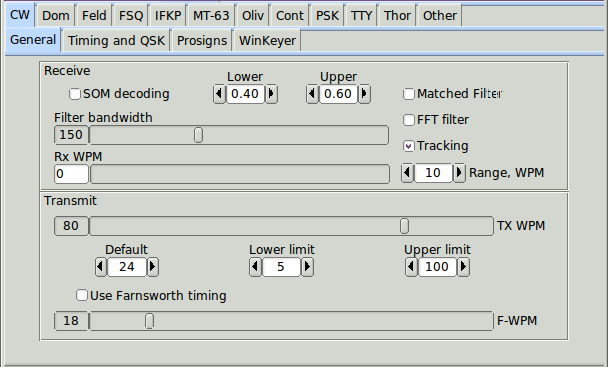
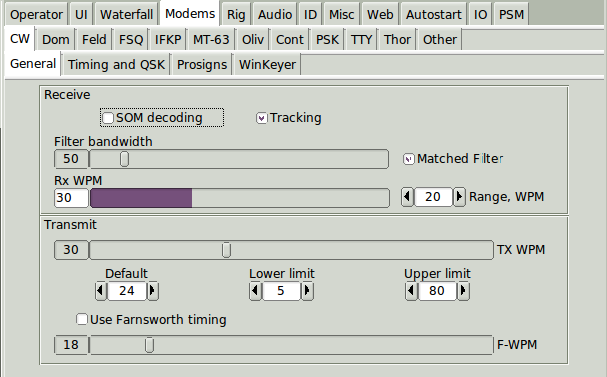
CW code update
* Changed all element timing to number of samples
    both CW and CW scanning detectors
  * Removed FIR filter. FFT filter only for CW signal path.
  * Removed Hilbert transform from CW signal path
  * Update CW documentation

Changed region(s): [[0.0, 0.0, 1.0, 1.0]]

diff --git a/src/include/cw.h b/src/include/cw.h
@@ -36,20 +36,11 @@
 #include "fftfilt.h"
 #include "mbuffer.h"
 
-
-#define	CWSampleRate	8000
+#define	CW_SAMPLERATE	8000
 #define	CWMaxSymLen		4096		// AG1LE: - was 4096 
 #define KNUM 			640			// 1/2 dot length at 5 wpm
 
-// decimation ratio for the receiver 
-//#define	DEC_RATIO	8
-//#define CW_FIRLEN 32		
-//#define CW_FIRLEN   122      
-//#define CW_FIRLEN	  256
-//#define CW_FIRLEN   512
-// Limits on values of CW send and timing parameters 
-//#define	CW_MIN_SPEED		5	// Lowest WPM allowed 
-//#define	CW_MAX_SPEED		100	// Highest WPM allowed 
+#define MAX_MORSE_ELEMENTS 6 // maximum of 6 elements in a Morse character 256
 
 // CW function return status codes. 
 #define	CW_SUCCESS	0
@@ -59,8 +50,8 @@
 #define	ASC_SPACE	' '	// ASCII space char 
 
 // Tone and timing magic numbers. 
-#define	DOT_MAGIC	1200000	// Dot length magic number.  The Dot
-//							   length is 1200000/WPM Usec 
+#define	KWPM	(12 * CW_SAMPLERATE/10)  // #samples in dot = KWPM / WPM
+
 #define	TONE_SILENT	0	// 0Hz = silent 'tone' 
 #define	USECS_PER_SEC	1000000	// Microseconds in a second 
 
@@ -68,14 +59,14 @@
 #define	INITIAL_RECEIVE_SPEED	18	// Initial receive speed in WPM 
 
 // Initial adaptive speed threshold 
-#define	INITIAL_THRESHOLD	((DOT_MAGIC / INITIAL_RECEIVE_SPEED) * 2)
+#define	INITIAL_THRESHOLD	((KWPM / INITIAL_RECEIVE_SPEED) * 2)
 
 // Initial noise filter threshold 
-#define	INITIAL_NOISE_THRESHOLD	((DOT_MAGIC / CW_MAX_SPEED) / 2)
+#define	INITIAL_NOISE_THRESHOLD	((KWPM / CW_MAX_SPEED) / 2)
 
 #define TRACKING_FILTER_SIZE 16
 
-#define MAX_PIPE_SIZE (22 * CWSampleRate * 12 / 800)
+#define MAX_PIPE_SIZE (22 * CW_SAMPLERATE * 12 / 800)
 
 enum CW_RX_STATE {
 	RS_IDLE = 0,
@@ -94,7 +85,7 @@ class cw : public modem {
 
 #define CLRCOUNT 16
 #define	DEC_RATIO	16
-#define CW_FIRLEN   512
+#define CW_FIRLEN   128
 // Maximum number of signs (dit or dah) in a Morse char.
 #define WGT_SIZE 7
 
@@ -117,14 +108,11 @@ protected:
 
 	int			FilterFFTLen;
 	bool		use_matched_filter;
-	bool		use_fft_filter;
 
 	double		upper_threshold;
 	double		lower_threshold;
 
-	C_FIR_filter	*hilbert;   // Hilbert filter precedes sinc filter
 	fftfilt			*cw_FFT_filter; // sinc / matched filter
-	C_FIR_filter	*cw_FIR_filter; // linear phase finite impulse response filter
 
 	Cmovavg		*bitfilter;
 	Cmovavg		*trackingfilter;
@@ -175,13 +163,12 @@ protected:
 	long int cw_receive_dash_length;		// Length of a receive Dash, in Usec 
 
 // Receive buffering
-#define	RECEIVE_CAPACITY	256		// Way longer than any representation 
-	char rx_rep_buf[RECEIVE_CAPACITY];
+	std::string rx_rep_buf;
 	int cw_rr_current;				// Receive buffer current location 
 	unsigned int cw_rr_start_timestamp;		// Tone start timestamp 
 	unsigned int cw_rr_end_timestamp;		// Tone end timestamp 
 
-	long int cw_adaptive_receive_threshold;		// 2-dot threshold for adaptive speed 
+	long int two_dots;		// 2-dot threshold for adaptive speed 
 	int in_replay; 					//AG1LE: if we have replay even, set to 1 otherwise = 0 ; 
 
 // Receive adaptive speed tracking.
@@ -196,7 +183,7 @@ protected:
 	void	sync_parameters();
 	void	reset_rx_filter();
 	int		handle_event(int cw_event, const char **c);
-	int		usec_diff(unsigned int earlier, unsigned int later);
+	inline	int usec_diff(unsigned int earlier, unsigned int later);
 	void	send_symbol(int symbol, int len);
 	void	send_ch(int c);
 	bool 	tables_init();

diff --git a/src/include/configuration.h b/src/include/configuration.h
@@ -410,9 +410,6 @@
         ELEM_(bool, CWmfilt, "CWMFILT",                                                 \
               "Matched Filter in use",                                                  \
               false)                                                                    \
-        ELEM_(bool, CWuse_fft_filter, "CWUSEFFTFILTER",                                 \
-              "Use FFT overlap and add convolution filter",                             \
-              false)                                                                    \
         ELEM_(bool, CWuseSOMdecoding, "CWUSESOMDECODING",                               \
               "Self Organizing Map decoding",                                           \
               false)                                                                    \

diff --git a/src/include/confdialog.h b/src/include/confdialog.h
@@ -310,17 +310,16 @@ extern Fl_Tabs *tabsModems;
 extern Fl_Group *tabCW;
 extern Fl_Tabs *tabsCW;
 extern Fl_Group *tabsCW_general;
+extern Fl_Check_Button *btnCWuseSOMdecoding;
+extern Fl_Check_Button *btnCWrcvTrack;
 extern Fl_Value_Slider2 *sldrCWbandwidth;
+extern Fl_Check_Button *btnCWmfilt;
 #include <FL/Fl_Value_Output.H>
 extern Fl_Value_Output *valCWrcvWPM;
 #include <FL/Fl_Progress.H>
 extern Fl_Progress *prgsCWrcvWPM;
-extern Fl_Check_Button *btnCWuseSOMdecoding;
 extern Fl_Counter2 *cntLower;
 extern Fl_Counter2 *cntUpper;
-extern Fl_Check_Button *btnCWmfilt;
-extern Fl_Check_Button *btnCWuseFFTfilter;
-extern Fl_Check_Button *btnCWrcvTrack;
 extern Fl_Counter2 *cntCWrange;
 extern Fl_Value_Slider2 *sldrCWxmtWPM;
 extern Fl_Counter2 *cntCWdefWPM;

diff --git a/src/include/morse.h b/src/include/morse.h
@@ -59,7 +59,7 @@ public:
 	~cMorse() {
 	}
 	void init();
-	const char	*rx_lookup(char *r);
+	const char	*rx_lookup(const char *r);
 	unsigned long	tx_lookup(int c);
 	const char *tx_print(int c);
 };

diff --git a/src/include/filters.h b/src/include/filters.h
@@ -118,7 +118,7 @@ private:
 	int		len, pint;
 	bool	empty;
 public:
-	Cmovavg(int filtlen);
+	Cmovavg(int filtlen = 64);
 	~Cmovavg();
 	double run(double a);
 	void setLength(int filtlen);
